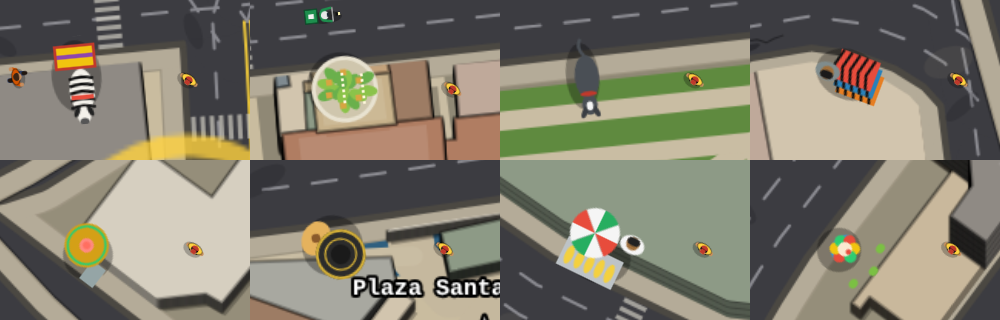
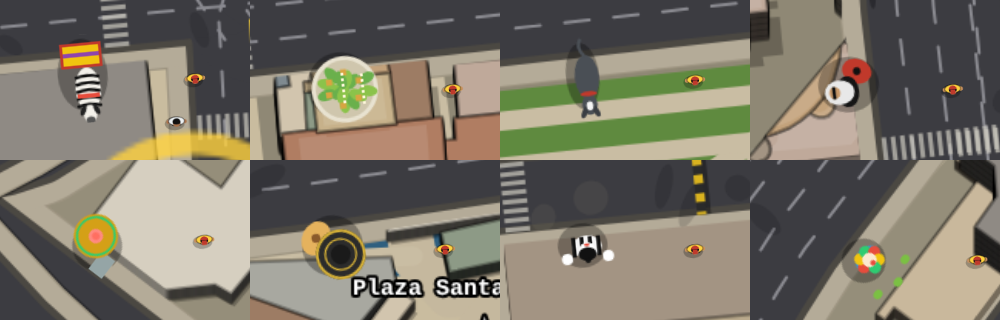
Easter eggs: Mimo Moy y Javier Bátiz en lugar del elotero y las cobijas
Claude-Session: https://claude.ai/code/session_011bQQBMaAvLKL6V3BYDmRjJ

diff --git a/src/game.js b/src/game.js
@@ -81,14 +81,14 @@ const EGGS = [
     say: '"Nací aquí en 1924 y los gringos juran que soy italiana. Ni modo, toma una lana."' },
   { k: 'xolo', name: 'Un Xolo pelón', near: 'Parque Teniente Guerrero', dx: 40, dy: -50, pay: 150,
     say: '"Sí, estoy pelón. No, no tengo frío. Sí, le voy a los Xolos. Ten tu feria y no me andes sobando."' },
-  { k: 'cobija', name: 'El de las Cobijas de Tigre', near: 'Garita de San Ysidro', dx: -60, dy: 50, pay: 150,
-    say: '"¡Cobija de tigre, güero, calientita! ...Ya, no compras nada. Toma, pero no le digas a mi vieja."' },
+  { k: 'batiz', name: 'Javier Bátiz', near: 'Frontón Jai Alai', dx: -40, dy: 40, pay: 200,
+    say: '"Yo le enseñé a tocar a Santana, ¿y tú qué has hecho? Toma, cómprate una guitarra y ponte a practicar."' },
   { k: 'gringo', name: 'Un Gringo Perdido', near: 'Puente El Chaparral', dx: -50, dy: 60, pay: 250,
     say: '"Bro, where is la Revolución? Llevo tres días caminando. Toma mis dólares, ya no los entiendo."' },
   { k: 'mariachi', name: 'El Mariachi Desvelado', near: 'Plaza Santa Cecilia', dx: -40, dy: -20, pay: 200,
     say: '"Te canto El Rey gratis... no, mentira. Bueno, hoy sí, y hasta te doy pa\'l camión."' },
-  { k: 'elote', name: 'El Elotero', near: 'Mercado Hidalgo', dx: 40, dy: 40, pay: 100,
-    say: '"¿Con todo? Mayonesa, queso, chile y tu dignidad. Invita la casa y de pilón una lana."' },
+  { k: 'mimo', name: 'El Mimo Moy', near: 'Museo de Historia (MUHTI)', dx: 40, dy: 40, pay: 150,
+    say: '(No dice ni una palabra. Saca una cartera invisible, cuenta billetes invisibles... y te da dinero de verdad.)' },
   { k: 'payaso', name: 'El Payaso del Crucero', near: 'Glorieta Cuauhtémoc', dx: 60, dy: -40, pay: 150,
     say: '"Hago malabares con tres limones y dos chambas. Toma, que hoy me fue bien en el semáforo."' },
 ].map(e => { const l = landmarks.find(q => q.name === e.near) || landmarks[0]; return { ...e, x: l.x + e.dx * M, y: l.y + e.dy * M, got: false }; });
@@ -1119,13 +1119,13 @@ function makeEggs(scene) {
       x.beginPath(); x.moveTo(16, 24.5); x.quadraticCurveTo(19, 28, 17, 31); x.stroke();
       ell(x, '#c0392b', 16, 11, 3, 0.9);
     },
-    cobija(x) { // vendedor con un monton de cobijas de tigre
-      shadow(x, 12, 9);
-      for (let i = 0; i < 3; i++) {
-        const y0 = 10 + i * 2.2, x0 = 5 + i * 1.5; x.fillStyle = ['#e67e22', '#2980b9', '#e74c3c'][i]; x.fillRect(x0, y0, 15, 11);
-        x.strokeStyle = '#111'; x.lineWidth = 1; for (let k = 2; k < 15; k += 3) { x.beginPath(); x.moveTo(x0 + k, y0); x.lineTo(x0 + k + 1.5, y0 + 5); x.lineTo(x0 + k, y0 + 11); x.stroke(); }
-      }
-      persona(x, 25, 16, '#7f8c8d', '#a0703c', '#1a1a1a');
+    batiz(x) { // rockero de pelo largo canoso, lentes oscuros y su guitarra electrica
+      shadow(x, 10, 11);
+      ell(x, '#c0392b', 22, 21, 4.4, 5.4, 0.5); ell(x, '#111', 22, 21, 1.4, 1.4);
+      x.strokeStyle = '#3b2a1a'; x.lineWidth = 1.6; x.beginPath(); x.moveTo(19.5, 17.5); x.lineTo(13, 9); x.stroke();
+      ell(x, '#151515', 15, 17, 5.6, 4);
+      ell(x, '#e8e8e8', 15, 14, 4.4, 5.4); ell(x, '#c99a6b', 15, 12.2, 2.2, 2);
+      x.fillStyle = '#111'; x.fillRect(12.8, 11.4, 4.4, 1.2);
     },
     gringo(x) { // turista quemado con sombrero de souvenir, camisa hawaiana y maleta
       shadow(x, 9, 9); x.fillStyle = '#95a5a6'; x.fillRect(20, 18, 6, 8);
@@ -1139,12 +1139,13 @@ function makeEggs(scene) {
       ell(x, '#111', 15, 15, 5.5, 4); ell(x, '#2b2b2b', 15, 14, 9, 9); ell(x, '#d4af37', 15, 14, 9, 9); ell(x, '#2b2b2b', 15, 14, 8, 8);
       ell(x, '#1a1a1a', 15, 14, 3.6, 3.6); x.strokeStyle = '#d4af37'; x.lineWidth = 0.6; x.beginPath(); x.arc(15, 14, 5.6, 0, 7); x.stroke();
     },
-    elote(x) { // carrito de elotes con sombrilla
-      shadow(x, 12, 10); x.fillStyle = '#bdc3c7'; x.fillRect(5, 16, 22, 11);
-      for (let i = 0; i < 5; i++) ell(x, '#f4d03f', 8 + i * 4, 22, 1.5, 3.6);
-      const cs = ['#e74c3c', '#f5f5f5', '#27ae60', '#f5f5f5'];
-      for (let i = 0; i < 8; i++) { x.fillStyle = cs[i % 4]; x.beginPath(); x.moveTo(13, 11); x.arc(13, 11, 9, i * Math.PI / 4, (i + 1) * Math.PI / 4); x.fill(); }
-      persona(x, 27, 9, '#f5f5f5', '#a0703c', '#222');
+    mimo(x) { // mimo: cara blanca, boina negra, playera de rayas y guantes blancos
+      shadow(x, 9, 8);
+      ell(x, '#f5f5f5', 16, 17, 5.4, 4);
+      x.fillStyle = '#111'; for (let i = 0; i < 4; i++) x.fillRect(11 + i * 3, 13.4, 1.4, 7.2);
+      ell(x, '#fff', 8.6, 13, 2, 2); ell(x, '#fff', 23.4, 13, 2, 2);
+      ell(x, '#fff', 16, 15.5, 3, 3); ell(x, '#111', 16, 14.3, 3.3, 2.4); ell(x, '#111', 16, 12, 1, 1);
+      ell(x, '#e74c3c', 16, 17.6, 1, 0.5);
     },
     payaso(x) { // payaso de crucero con peluca de colores y limones en el aire
       shadow(x, 8, 8); ell(x, '#3498db', 16, 17, 5, 3.8);
